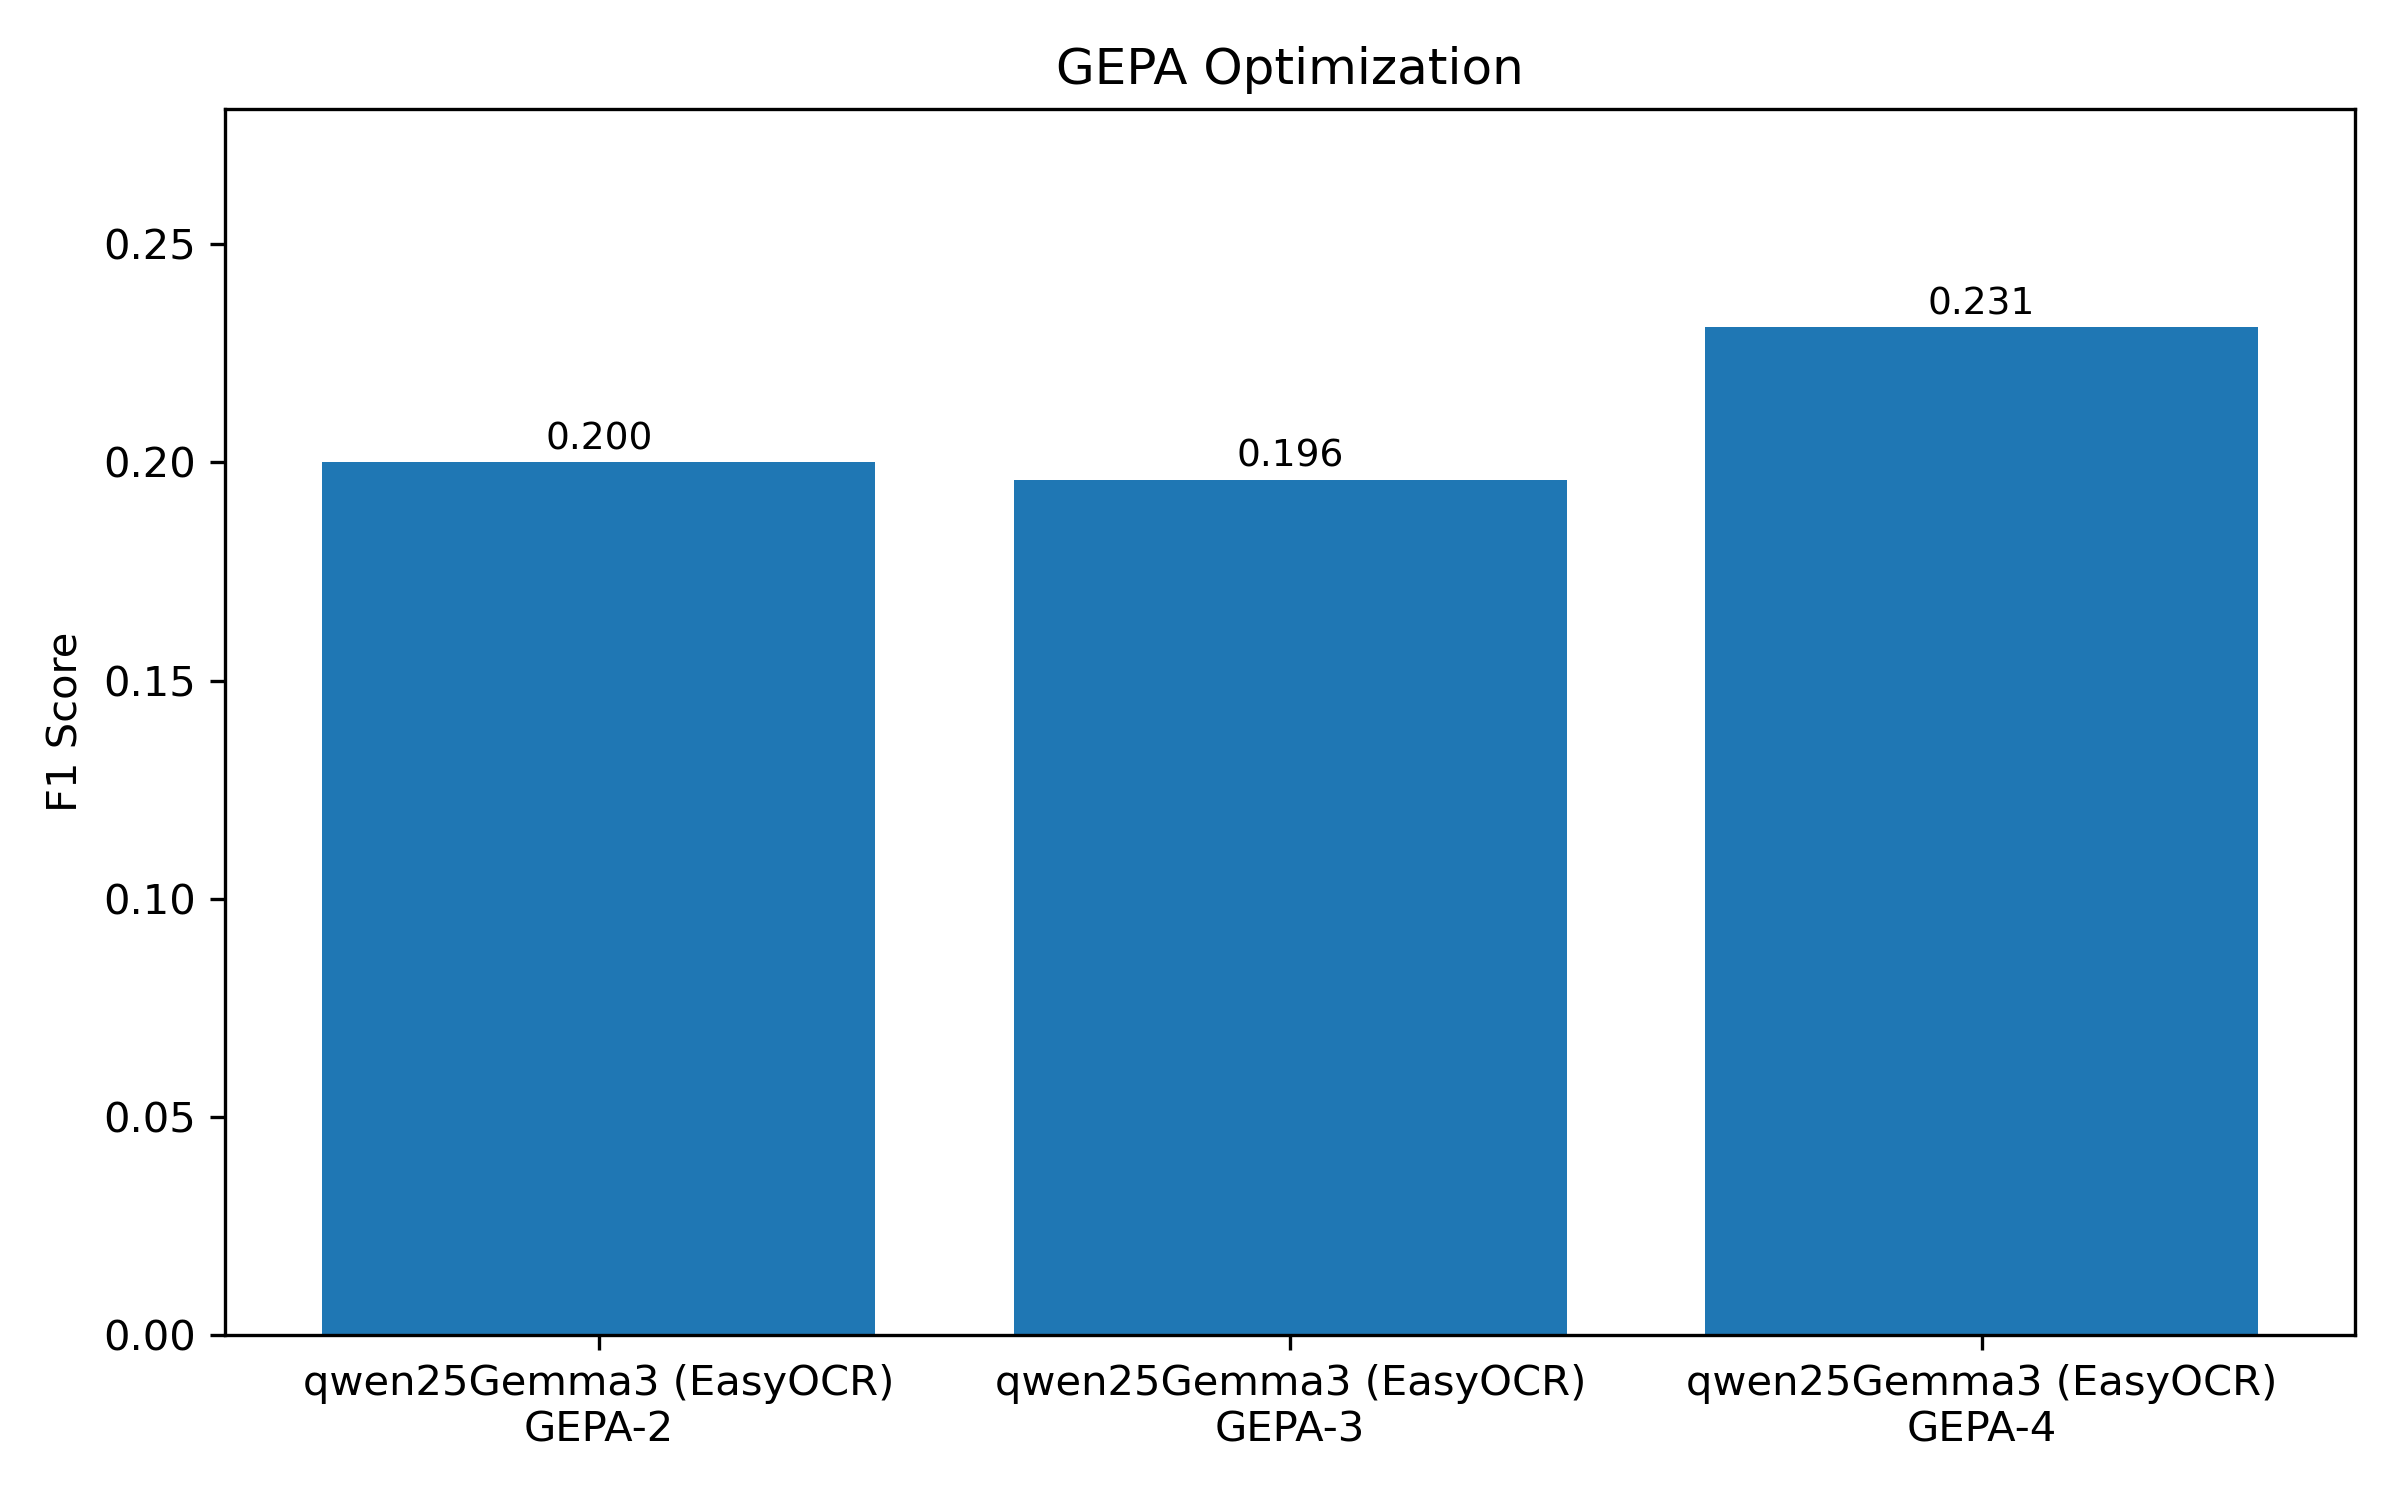
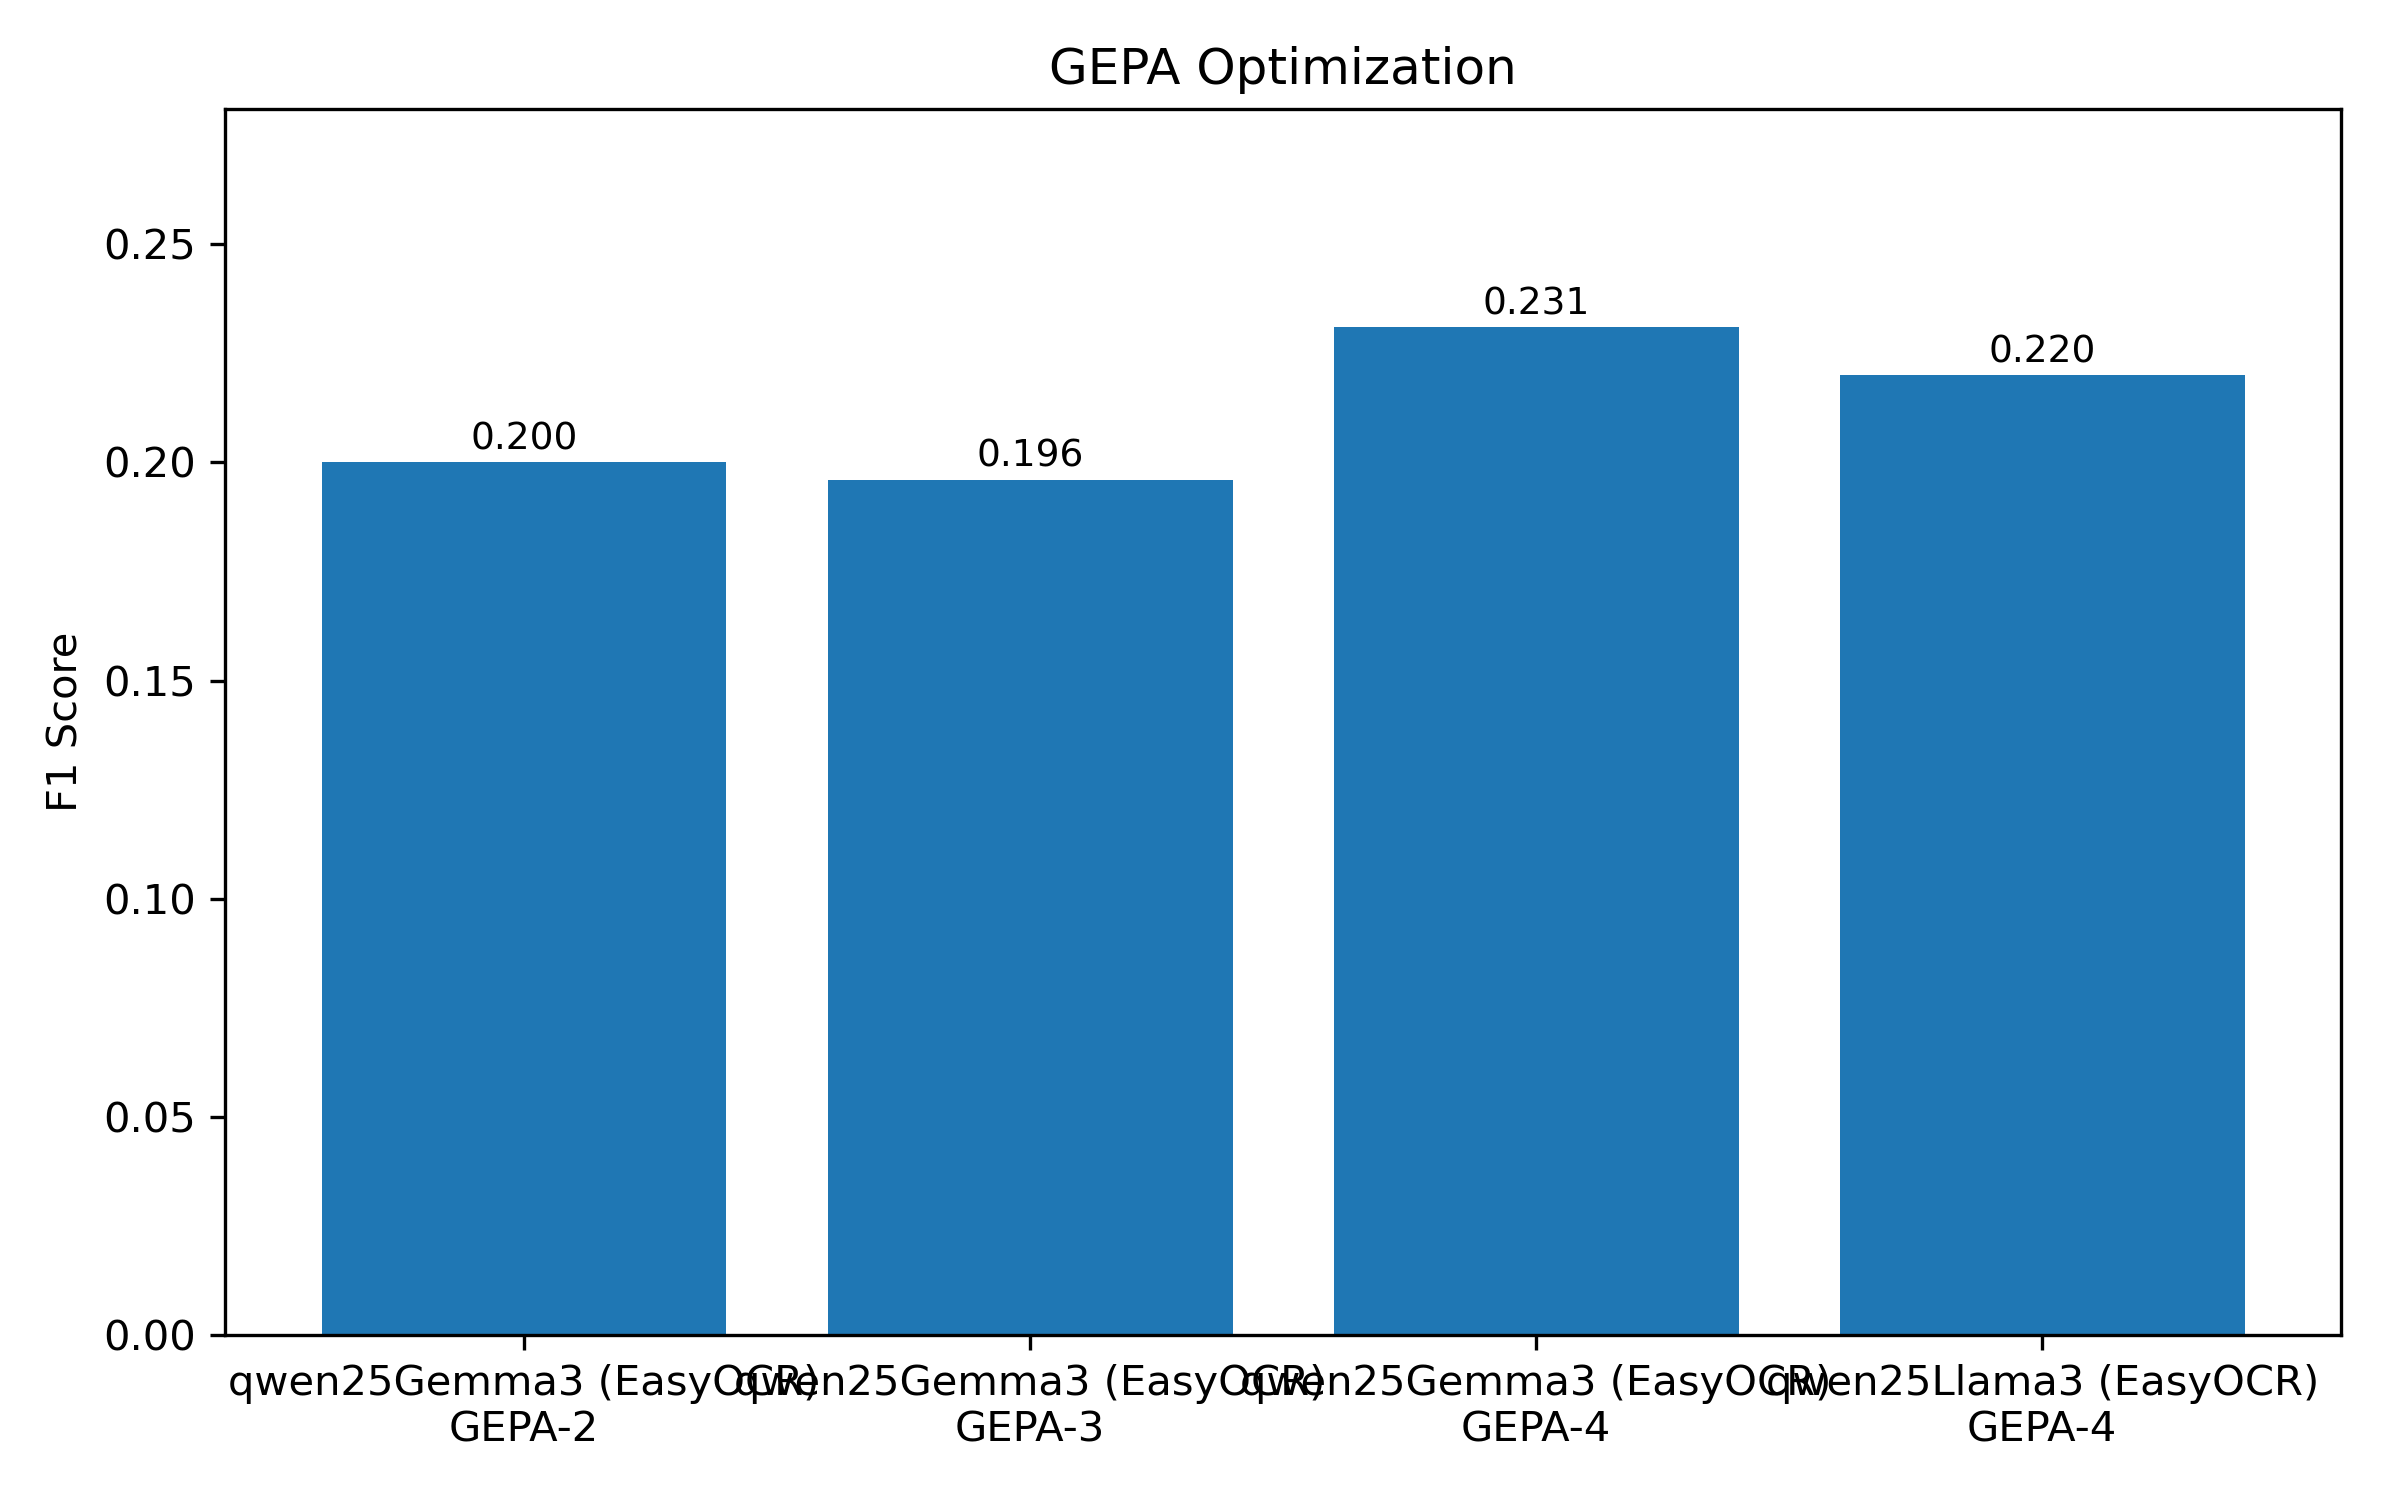
final results

Changed region(s): [[0.0938, 0.092, 1.0, 0.9813], [0.4375, 0.0307, 0.6562, 0.0613], [0.1875, 0.276, 0.2812, 0.3067]]

diff --git a/src/optimization/train_gepa.py b/src/optimization/train_gepa.py
@@ -29,7 +29,7 @@ lm = dspy.LM(
 )
 
 reflection_lm = dspy.LM(
-    "ollama_chat/gemma3:4b",
+    "ollama_chat/llama3",
     api_base="http://localhost:11434",
     temperature=0.5
 )
